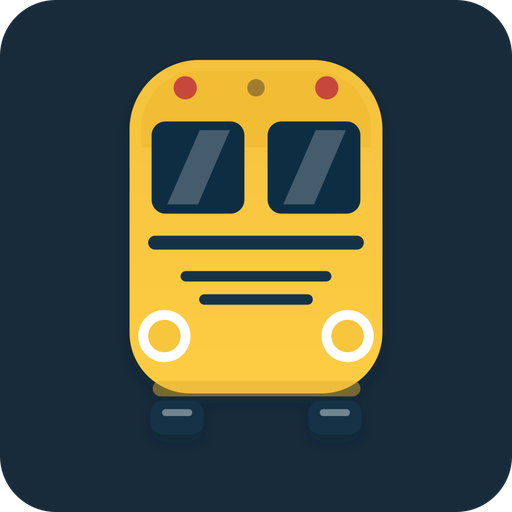
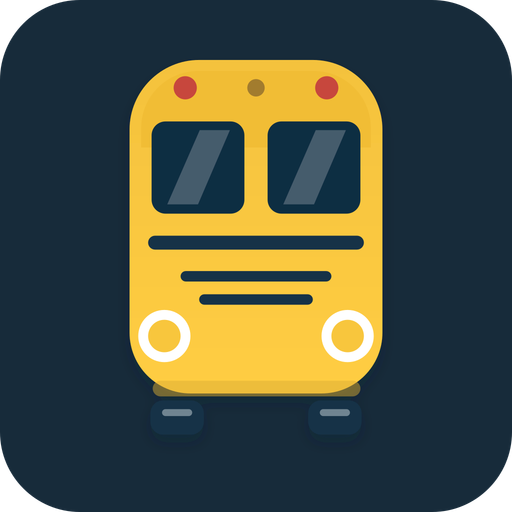
fix: standardize rounded-square brand mark

diff --git a/apps/mobile/src/index.css b/apps/mobile/src/index.css
@@ -53,14 +53,16 @@
 
 @layer components {
   html[data-app-surface='native-mobile'] .safebus-brand-mark {
-    border: 1px solid #19465e;
-    background-color: var(--mobile-primary) !important;
-    box-shadow: 0 4px 14px rgb(35 92 120 / 0.22);
+    border: 0;
+    background: transparent !important;
+    box-shadow: none;
   }
 
   html[data-app-surface='native-mobile'] .safebus-brand-mark img {
     width: 100%;
     height: 100%;
+    border-radius: 18%;
+    box-shadow: 0 4px 14px rgb(23 43 58 / 0.22);
   }
 
   html[data-app-surface='native-mobile'] [data-ui='login-shell'],
@@ -1132,10 +1134,9 @@
   html[data-app-surface='native-mobile'] [data-ui='app-loading'] .safebus-brand-mark {
     width: 5rem;
     height: 5rem;
-    border: 2px solid var(--guardian-navy);
-    border-radius: 1.75rem;
-    background: var(--guardian-navy) !important;
-    box-shadow: 0 14px 32px rgb(23 43 58 / 0.22);
+    border: 0;
+    background: transparent !important;
+    box-shadow: none;
   }
 
   html[data-app-surface='native-mobile'] [data-ui='app-loading-content'] > span:last-child {
@@ -1147,9 +1148,6 @@
     animation: guardian-loading-slide 1.1s ease-in-out infinite;
   }
 
-  html[data-app-surface='native-mobile']
-    [data-portal='parent'][data-ui='dashboard-shell']
-    .safebus-brand-mark,
   html[data-app-surface='native-mobile']
     [data-portal='parent'][data-ui='dashboard-shell']
     [data-ui='avatar'] {

diff --git a/tests/mobile-ui/material-mobile-ui.spec.ts b/tests/mobile-ui/material-mobile-ui.spec.ts
@@ -44,8 +44,9 @@ async function expectMaterialBrand(page: import('@playwright/test').Page) {
   await expect(mark.locator('svg')).toHaveCount(0);
   await expect(mark).toHaveCSS(
     'background-color',
-    'rgb(23, 43, 58)',
+    'rgba(0, 0, 0, 0)',
   );
+  await expect(logo).toHaveCSS('border-radius', '18%');
 }
 
 async function installNotificationInboxMock(page: import('@playwright/test').Page) {
